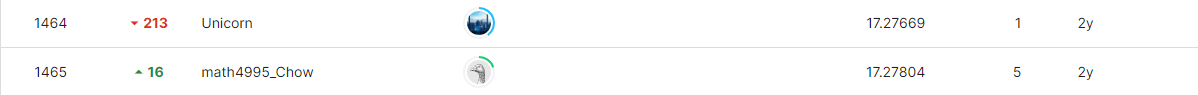
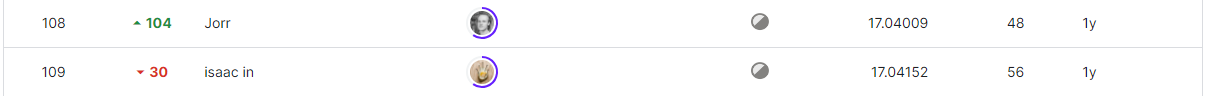
MinSikYoon

diff --git a/PetFinder.my - Pawpularity Contest/README.md b/PetFinder.my - Pawpularity Contest/README.md
@@ -5,10 +5,10 @@
 ### 요약 정보
   * 도전기관 : SecuLayer
   * 도전자 : 윤민식
-  * 최종 스코어 : 17.27728
-  * 제출 일자 : 2023-07-06
+  * 최종 스코어 : 17.0407
+  * 제출 일자 : 2023-07-07
   * 총 참여 팀수 : 3537
-  * 순위 및 비율 : 1465 (41.4%)
+  * 순위 및 비율 : 109 (3.0%)
 # 결과 화면
 -----------------------------------
 ![score](./img/score.PNG)
@@ -22,4 +22,3 @@
 [Petfinder.my - Pawpularity Contest.ipynb](https://github.com/yms0606/SecuLayer/blob/main/PetFinder.my%20-%20Pawpularity%20Contest/Petfinder.my%20-%20Pawpularity%20Contest.ipynb)
 # 참고자료
 ----------------------------------
-[https://www.kaggle.com/code/adityasharma01/fork-of-17-90508-notebook](https://www.kaggle.com/code/adityasharma01/fork-of-17-90508-notebook)
